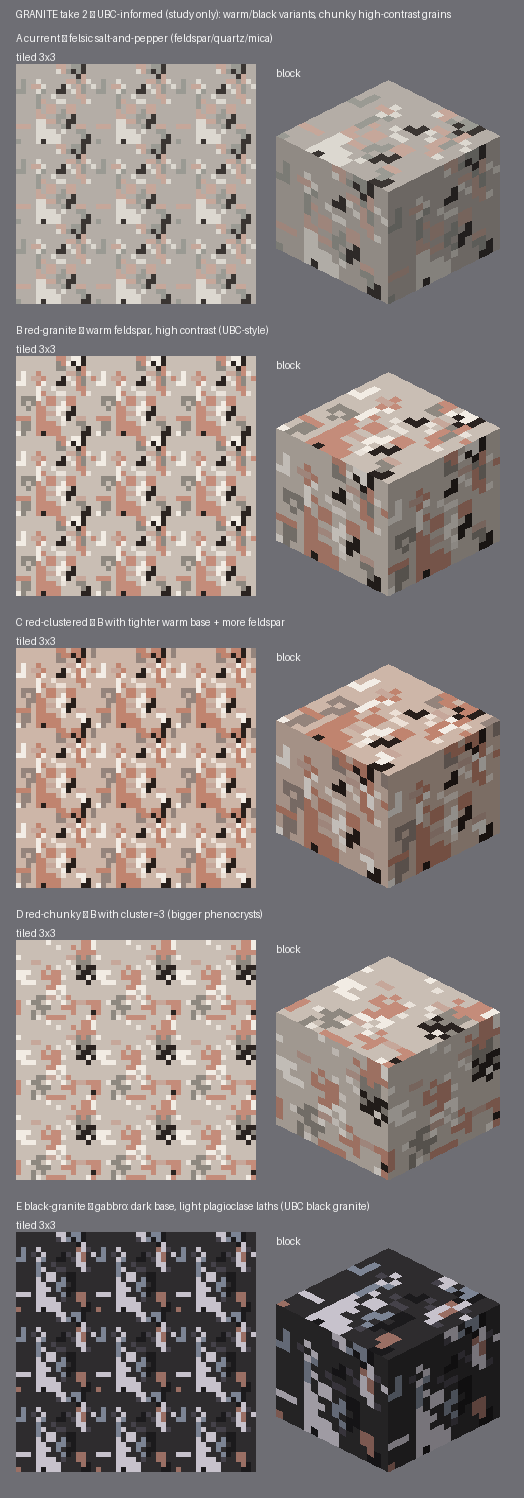
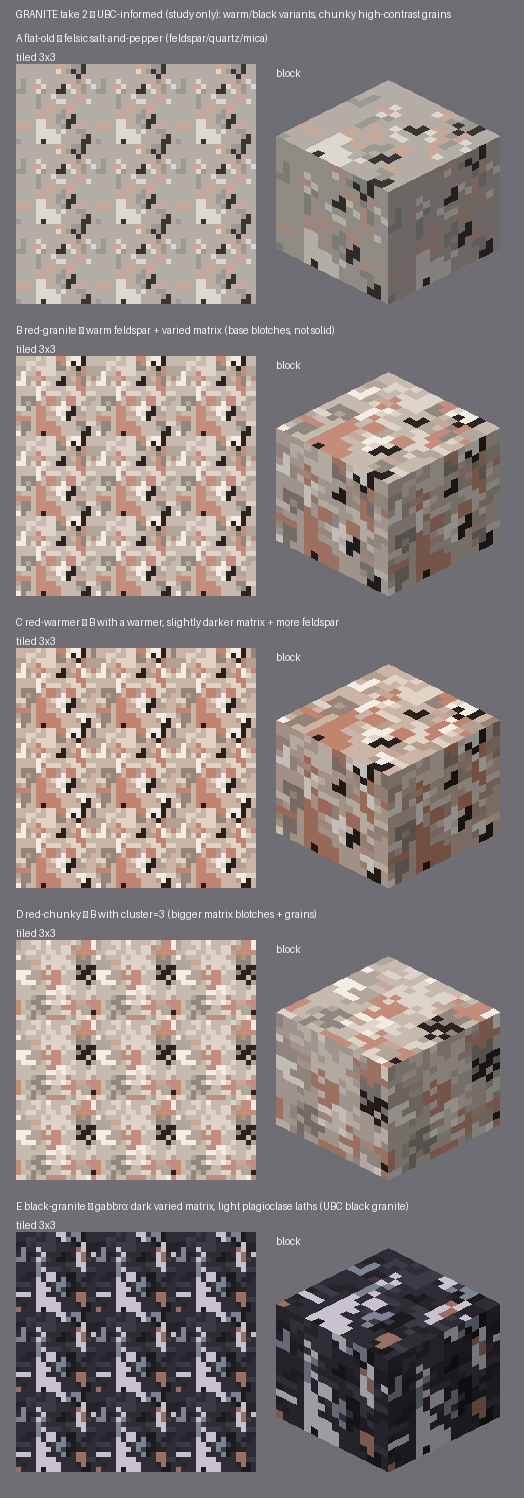
mc-style: granite candidates — give the matrix clustered value variation (no solid base)

diff --git a/gallery/2026-07-21-mc-style/granite_candidates.py b/gallery/2026-07-21-mc-style/granite_candidates.py
@@ -22,36 +22,32 @@ def spec(**kw):
     s.update(kw)
     return s
 
-# A: current (baseline). B/C: red granite (warm, UBC-contrast). D: chunkier phenocrysts. E: black granite.
+# Every candidate now gives the MATRIX real clustered value variation (3-tone ramp + busy_lo/hi +
+# cluster) so the background between grains isn't a solid fill. A_flat is the old solid-base granite,
+# kept only to show the problem the user flagged.
+RED_MIN = [{"color": "2A2320", "p": 0.11},   # near-black biotite
+           {"color": "C48C7A", "p": 0.17},   # salmon feldspar, genuinely present
+           {"color": "F2ECE4", "p": 0.10},   # near-white quartz/plagioclase
+           {"color": "8E8880", "p": 0.08}]   # grey mica
 CANDS = {
-    "A current": base,
+    "A flat-old": base,
     "B red-granite": spec(
-        desc="warm feldspar, high contrast (UBC-style)",
-        ramp=["C9BEB4", "C9BEB4", "E9E2DA"],
-        minerals=[{"color": "2A2320", "p": 0.11},   # near-black biotite
-                  {"color": "C48C7A", "p": 0.17},   # salmon feldspar, genuinely present
-                  {"color": "F2ECE4", "p": 0.10},   # near-white quartz/plagioclase
-                  {"color": "8E8880", "p": 0.08}],  # grey mica
-        mineral_cluster=2),
-    "C red-clustered": spec(
-        desc="B with tighter warm base + more feldspar",
-        ramp=["CDB6A8", "CDB6A8", "ECE0D6"],
-        minerals=[{"color": "281F1B", "p": 0.12},
-                  {"color": "C0846F", "p": 0.20},
-                  {"color": "F3EDE6", "p": 0.09},
-                  {"color": "94847C", "p": 0.07}],
+        desc="warm feldspar + varied matrix (base blotches, not solid)",
+        ramp=["B2A69A", "C6BAAF", "DED3C8"], busy_lo=0.26, busy_hi=0.26, cluster=2,
+        minerals=RED_MIN, mineral_cluster=2),
+    "C red-warmer": spec(
+        desc="B with a warmer, slightly darker matrix + more feldspar",
+        ramp=["B49E90", "CBB4A6", "E1D2C6"], busy_lo=0.28, busy_hi=0.26, cluster=2,
+        minerals=[{"color": "281F1B", "p": 0.12}, {"color": "C0846F", "p": 0.19},
+                  {"color": "F3EDE6", "p": 0.09}, {"color": "94847C", "p": 0.07}],
         mineral_cluster=2),
     "D red-chunky": spec(
-        desc="B with cluster=3 (bigger phenocrysts)",
-        ramp=["C9BEB4", "C9BEB4", "E9E2DA"],
-        minerals=[{"color": "2A2320", "p": 0.11},
-                  {"color": "C48C7A", "p": 0.17},
-                  {"color": "F2ECE4", "p": 0.10},
-                  {"color": "8E8880", "p": 0.08}],
-        mineral_cluster=3),
+        desc="B with cluster=3 (bigger matrix blotches + grains)",
+        ramp=["B2A69A", "C6BAAF", "DED3C8"], busy_lo=0.26, busy_hi=0.26, cluster=3,
+        minerals=RED_MIN, mineral_cluster=3),
     "E black-granite": spec(
-        desc="gabbro: dark base, light plagioclase laths (UBC black granite)",
-        ramp=["2E2C2E", "2E2C2E", "45424A"],
+        desc="gabbro: dark varied matrix, light plagioclase laths (UBC black granite)",
+        ramp=["26242A", "2E2C34", "3C3A44"], busy_lo=0.30, busy_hi=0.26, cluster=2,
         minerals=[{"color": "1B1A1C", "p": 0.14},   # black
                   {"color": "C7C2CC", "p": 0.13},   # light plagioclase
                   {"color": "7C8494", "p": 0.09},   # blue-grey
